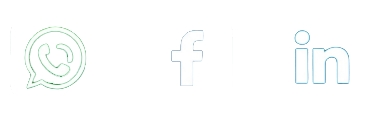
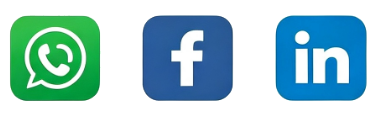
更新

diff --git a/js/translations.js b/js/translations.js
@@ -1,5 +1,5 @@
 /**
- * 站点多语言文案表（英 / 中 / 韩 / 日 / 法 / 德）
+ * 站点多语言文案表（英 / 中 / 西 / 韩 / 日 / 法 / 德）
  * key 与页面 data-i18n* 属性一一对应
  */
 window.SolanTranslations = {
@@ -89,6 +89,94 @@ window.SolanTranslations = {
     'footer.copy': '© 2026 Hebei Solan Technology Co., Ltd. <a href="http://www.solanactive.com" target="_blank" rel="noopener noreferrer">Solanactive.com</a>. All Rights Reserved.',
     'footer.terms': 'Terms of Use',
     'footer.privacy': 'Privacy Policy'
+  },
+
+  es: {
+    'meta.title': 'Solan | Cadena de suministro deportiva y outdoor',
+    'meta.description': 'Solan - Proveedor profesional de protecciones deportivas, accesorios de fitness, ciclismo outdoor y ropa funcional. 12 años de experiencia en comercio exterior. OEM/ODM, DDP, suministro Amazon FBA.',
+    'lang.aria': 'Seleccionar idioma',
+    'nav.home': 'Inicio',
+    'nav.about': 'Nosotros',
+    'nav.products': 'Productos',
+    'nav.services': 'Servicios',
+    'nav.faq': 'FAQ',
+    'nav.contact': 'Contacto',
+    'home.title': 'Proveedor integral de confianza<br/>Productos deportivos y outdoor',
+    'home.subtitle': 'Protecciones deportivas | Ciclismo y outdoor | Ropa funcional | Accesorios de fitness',
+    'home.tags': 'Personalización OEM y ODM｜Suministro Amazon FBA｜Servicio DDP puerta a puerta',
+    'home.ctaProducts': 'Ver productos →',
+    'home.ctaQuote': 'Solicitar cotización',
+    'about.badge': 'Más de 12 años en comercio exterior',
+    'about.title': 'Sobre nosotros | Hebei Solan Technology Co., Ltd',
+    'about.whoTitle': 'Quiénes somos',
+    'about.whoBody': 'Hebei Solan Technology Co., Ltd. es un proveedor profesional de cadena de suministro de artículos deportivos. Con 12 años de experiencia madura en importación y exportación, operamos un modelo dual de fábrica propia + fábricas asociadas certificadas, enfocados en protecciones deportivas, accesorios de fitness, ciclismo outdoor y ropa activa funcional.',
+    'about.whyTitle': 'Por qué elegirnos',
+    'about.whyBody1': 'Solan ofrece sourcing integral para resolver los problemas de proveedores dispersos, calidad inconsistente y altos costos de comunicación de los compradores internacionales.',
+    'about.whyBody2': 'Además, contamos con amplia experiencia en suministro Amazon, personalización OEM/ODM y entrega DDP puerta a puerta, brindando soluciones profesionales de comercio exterior de punta a punta para clientes globales.',
+    'about.certificates': 'Certificados y cualificaciones',
+    'about.reviews': 'Opiniones verificadas de clientes',
+    'about.altFactory': 'Taller de producción de la fábrica Solan',
+    'about.altCertificates': 'Certificados y cualificaciones de la empresa',
+    'about.altReviews': 'Opiniones y comentarios de clientes',
+    'products.badge': 'Centro de productos',
+    'products.title': 'Nuestros productos | Mayorista deportivo y outdoor Solan',
+    'products.protective': 'Protecciones deportivas',
+    'products.fitness': 'Accesorios de fitness y deporte',
+    'products.outdoor': 'Serie outdoor y ciclismo',
+    'products.apparel': 'Ropa funcional y seguridad reflectante',
+    'products.mixed': 'Compra mixta integral',
+    'products.altProtective': 'Protecciones deportivas',
+    'products.altFitness': 'Accesorios de fitness y deporte',
+    'products.altOutdoor': 'Serie outdoor y ciclismo',
+    'products.altApparel': 'Ropa funcional y seguridad reflectante',
+    'products.altMixed': 'Compra mixta integral',
+    'services.badge': 'Servicios',
+    'services.title': 'Nuestros servicios | Solución integral de cadena de suministro deportiva',
+    'services.qcTitle': 'Selección estricta de fábricas y QC unificado',
+    'services.qcBody': 'Fábricas asociadas cualificadas con licencia de exportación. Normas unificadas, inspección de telas, supervisión de semielaborados y muestreo de productos terminados. Cumplimiento de estándares de UE, EE. UU. y Amazon.',
+    'services.oemTitle': 'Personalización OEM / ODM',
+    'services.oemBody': 'Tela, talla, color, LOGO, silicona antideslizante, sublimación y marca privada. Pruebas gratuitas, muestras rápidas y MOQ flexible.',
+    'services.amazonTitle': 'Suministro especializado Amazon FBA',
+    'services.amazonBody': 'Años de experiencia sirviendo a vendedores de Amazon. Embalaje FBA estándar, etiquetado y stock por lotes para reducir riesgos de la plataforma.',
+    'services.ddpTitle': 'Entrega DDP puerta a puerta',
+    'services.ddpBody': 'Soporte de entrega DDP con impuestos incluidos para la mayoría de países europeos y americanos. Recogida, aduanas, aranceles y entrega en destino.',
+    'services.mixTitle': 'Consolidación mixta integral',
+    'services.mixBody': 'Mezcle protecciones, fitness, ciclismo, ropa y productos reflectantes en un contenedor. Un solo contacto, un solo envío y gran ahorro de costos.',
+    'services.afterTitle': 'Posventa profesional de comercio exterior',
+    'services.afterBody': 'Equipo de exportación con 12 años de experiencia, respuesta a consultas en 24 horas, seguimiento de pedidos, documentación y soporte posventa.',
+    'services.altQc': 'Inspección de calidad y QC',
+    'services.altOem': 'Personalización OEM y ODM',
+    'services.altAmazon': 'Suministro especializado Amazon FBA',
+    'faq.badge': 'FAQ',
+    'faq.title': 'FAQ | Respuestas sobre mayorista y personalización',
+    'faq.sub': 'Estas son las preguntas más frecuentes de nuestros clientes mayoristas y cross-border. Contáctenos si tiene otras consultas.',
+    'faq.q1': 'Q1: ¿Son una fábrica o una empresa comercial?',
+    'faq.a1': 'A: Modelo dual: fábrica propia para productos principales + fábricas asociadas para categorías complementarias. Control de calidad unificado para una compra multi-categoría estable.',
+    'faq.q2': 'Q2: ¿Pueden suministrar Amazon FBA y embalaje estándar?',
+    'faq.a2': 'A: Sí. Dominamos las normas de seguridad de la plataforma, etiquetado FBA, embalaje neutro y entrega estable por lotes.',
+    'faq.q3': 'Q3: ¿Ofrecen servicio de entrega DDP puerta a puerta?',
+    'faq.a3': 'A: Sí, soportamos entrega DDP con impuestos incluidos para los principales países europeos y americanos.',
+    'faq.q4': 'Q4: ¿Puedo mezclar diferentes productos deportivos en un contenedor?',
+    'faq.a4': 'A: Por supuesto. La consolidación mixta es nuestra ventaja clave y reduce costos de compra y logística.',
+    'faq.q5': 'Q5: ¿Soportan personalización OEM de marca privada?',
+    'faq.a5': 'A: Sí. Todos los productos principales admiten LOGO, patrón, tela y talla. Bocetos gratuitos y servicio de muestras rápidas.',
+    'faq.q6': 'Q6: ¿Cuál es su MOQ?',
+    'faq.a6': 'A: MOQ flexible para protecciones deportivas y ropa convencionales. Se admiten pedidos de prueba en lotes pequeños.',
+    'faq.q7': 'Q7: ¿Cómo garantizan la calidad del producto?',
+    'faq.a7': 'A: Estándares unificados de acceso a fábricas, supervisión de todo el proceso y muestreo aleatorio antes del envío. Soporte de inspección de terceros.',
+    'faq.q8': 'Q8: ¿Cuáles son sus condiciones de pago y entrega?',
+    'faq.a8': 'A: T/T, Alibaba Trade Assurance, envío FOB, DDP puerta a puerta y ciclos de entrega estables.',
+    'faq.sideCaption': 'Ventas y soporte posventa profesionales',
+    'faq.altSupport': 'Equipo de ventas y atención al cliente',
+    'contact.heading': 'Contáctenos',
+    'contact.hours': 'Lun–Vie 8:30 a. m. - 6:00 p. m. (hora de China)',
+    'contact.address': 'Sede: E4-0790, Tatan International Trade City, Shijiazhuang, China',
+    'contact.mapTip': 'Ver en Amap →',
+    'contact.mapAria': 'Ver el edificio 4 de Tatan International Trade City en Amap',
+    'contact.mapAlt': 'Mapa de la sede - Tatan International Trade City Building 4, Shijiazhuang',
+    'footer.copy': '© 2026 Hebei Solan Technology Co., Ltd. <a href="http://www.solanactive.com" target="_blank" rel="noopener noreferrer">Solanactive.com</a>. Todos los derechos reservados.',
+    'footer.terms': 'Términos de uso',
+    'footer.privacy': 'Política de privacidad'
   },
 
   zh: {

diff --git a/style/index.css b/style/index.css
@@ -53,7 +53,8 @@ main {
 
 /* Logo 行：浅底，左 Logo / 右社交渠道，限制行高（浅底便于 logo 文字辨认） */
 .logo-bar {
-  background: #141a22;
+  /* background: #141a22; */
+  background: #F7F9FC;
   border-bottom: 1px solid rgba(255, 255, 255, 0.06);
 }
 
@@ -69,17 +70,22 @@ main {
 }
 
 .logo-wrapper {
+  position: relative;
+  top: 22px;
   display: flex;
   align-items: center;
   gap: 10px;
   text-decoration: none;
   color: inherit;
   min-width: 0;
+  z-index: 100;
 }
 
 .logo-image {
-  width: 70px;
-  height: 50px;
+  /* width: 70px; */
+  /* height: 50px; */
+  width: 120px;
+  height: auto;
   object-fit: contain;
   border-radius: 10px;
   flex-shrink: 0;
@@ -118,7 +124,8 @@ main {
   border-radius: 6px;
   overflow: hidden;
   flex-shrink: 0;
-  background: #000;
+  /* background: #000; */
+  background: #F7F9FC;
   box-sizing: border-box;
   padding: 2px 6px;
 }
@@ -1471,7 +1478,8 @@ a.contact-simple__item:hover {
   aspect-ratio: 376 / 125;
   border-radius: 18px;
   overflow: hidden;
-  background: #000;
+  /* background: #000; */
+  background: #F7F9FC;
 }
 
 .social-channels__img {

diff --git a/index.html b/index.html
@@ -53,6 +53,7 @@
         </button>
         <ul class="lang-switcher__menu" id="lang-switcher-menu" role="listbox" hidden>
           <li role="option" tabindex="0" data-lang="en" aria-selected="true">English</li>
+          <li role="option" tabindex="0" data-lang="es" aria-selected="false">Español</li>
           <li role="option" tabindex="0" data-lang="ko" aria-selected="false">한국어</li>
           <li role="option" tabindex="0" data-lang="ja" aria-selected="false">日本語</li>
           <li role="option" tabindex="0" data-lang="fr" aria-selected="false">Français</li>

diff --git a/js/i18n.js b/js/i18n.js
@@ -7,10 +7,11 @@
   /** 默认语言（与页面当前英文文案一致） */
   var DEFAULT_LANG = 'en'
   /** 支持的语言列表（不含中文） */
-  var SUPPORTED = ['en', 'ko', 'ja', 'fr', 'de']
+  var SUPPORTED = ['en', 'es', 'ko', 'ja', 'fr', 'de']
   /** 按钮上显示的短标签 */
   var LANG_LABELS = {
     en: 'EN',
+    es: 'ES',
     ko: '한국어',
     ja: '日本語',
     fr: 'FR',
@@ -19,6 +20,7 @@
   /** html lang 属性映射 */
   var HTML_LANG = {
     en: 'en',
+    es: 'es',
     ko: 'ko',
     ja: 'ja',
     fr: 'fr',
